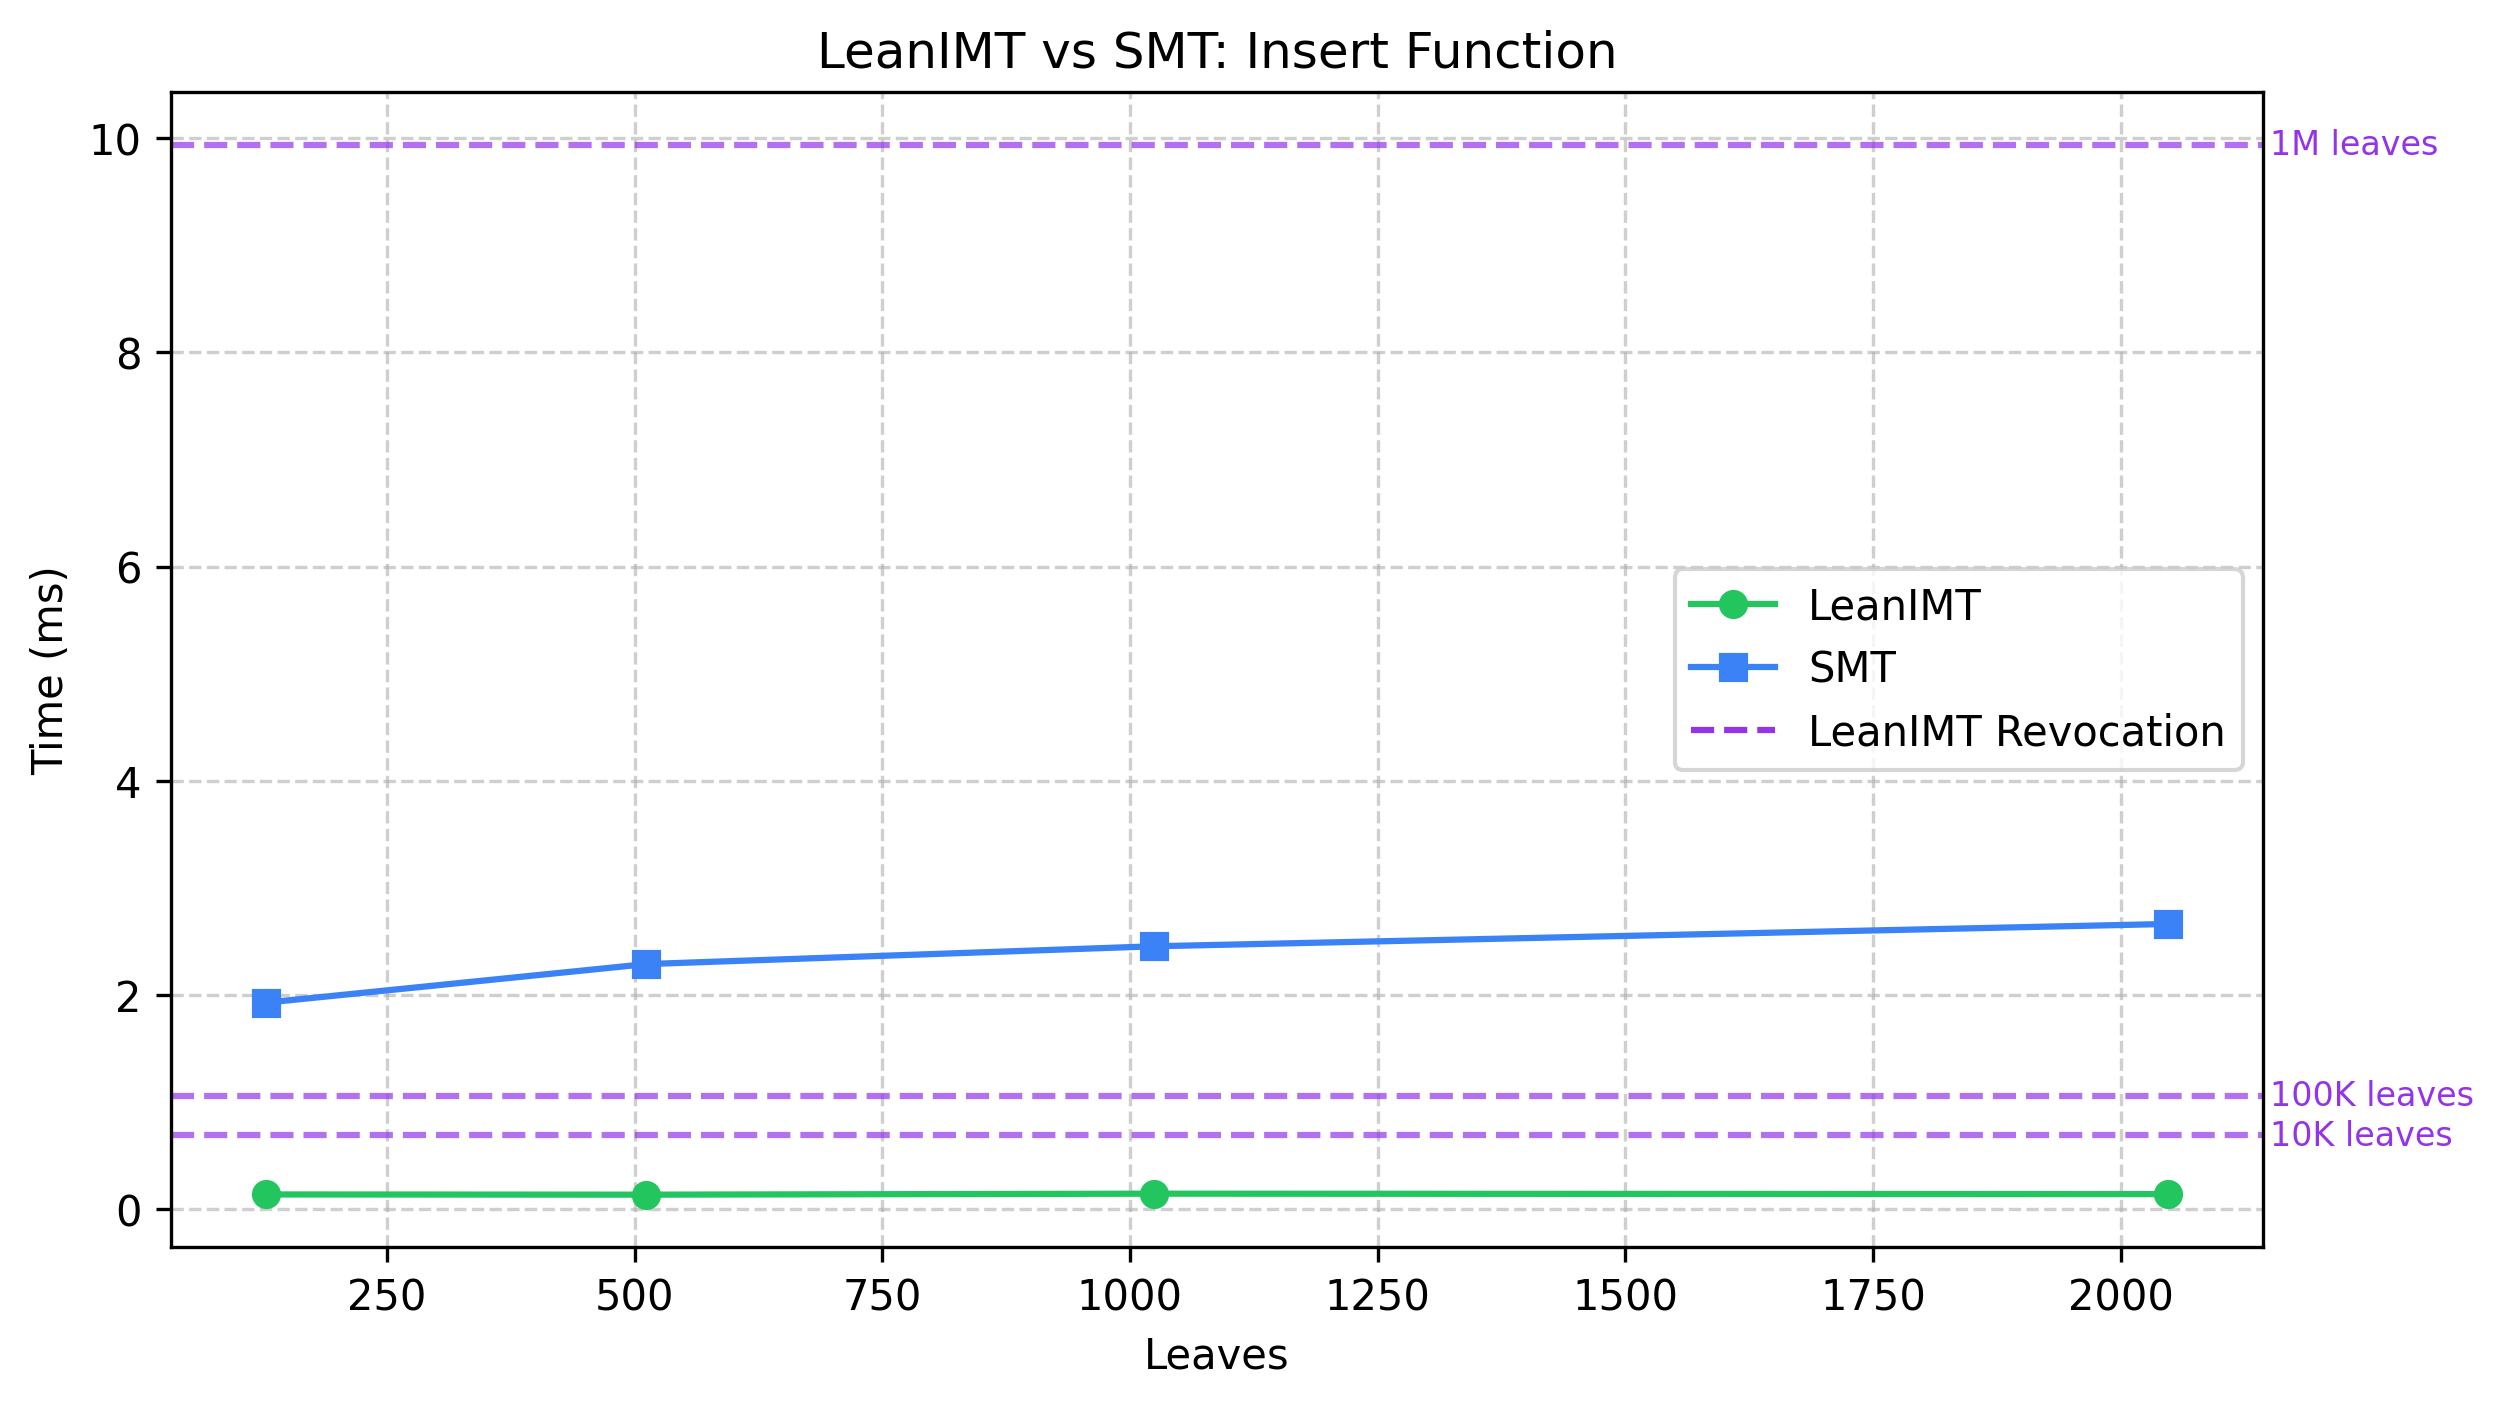
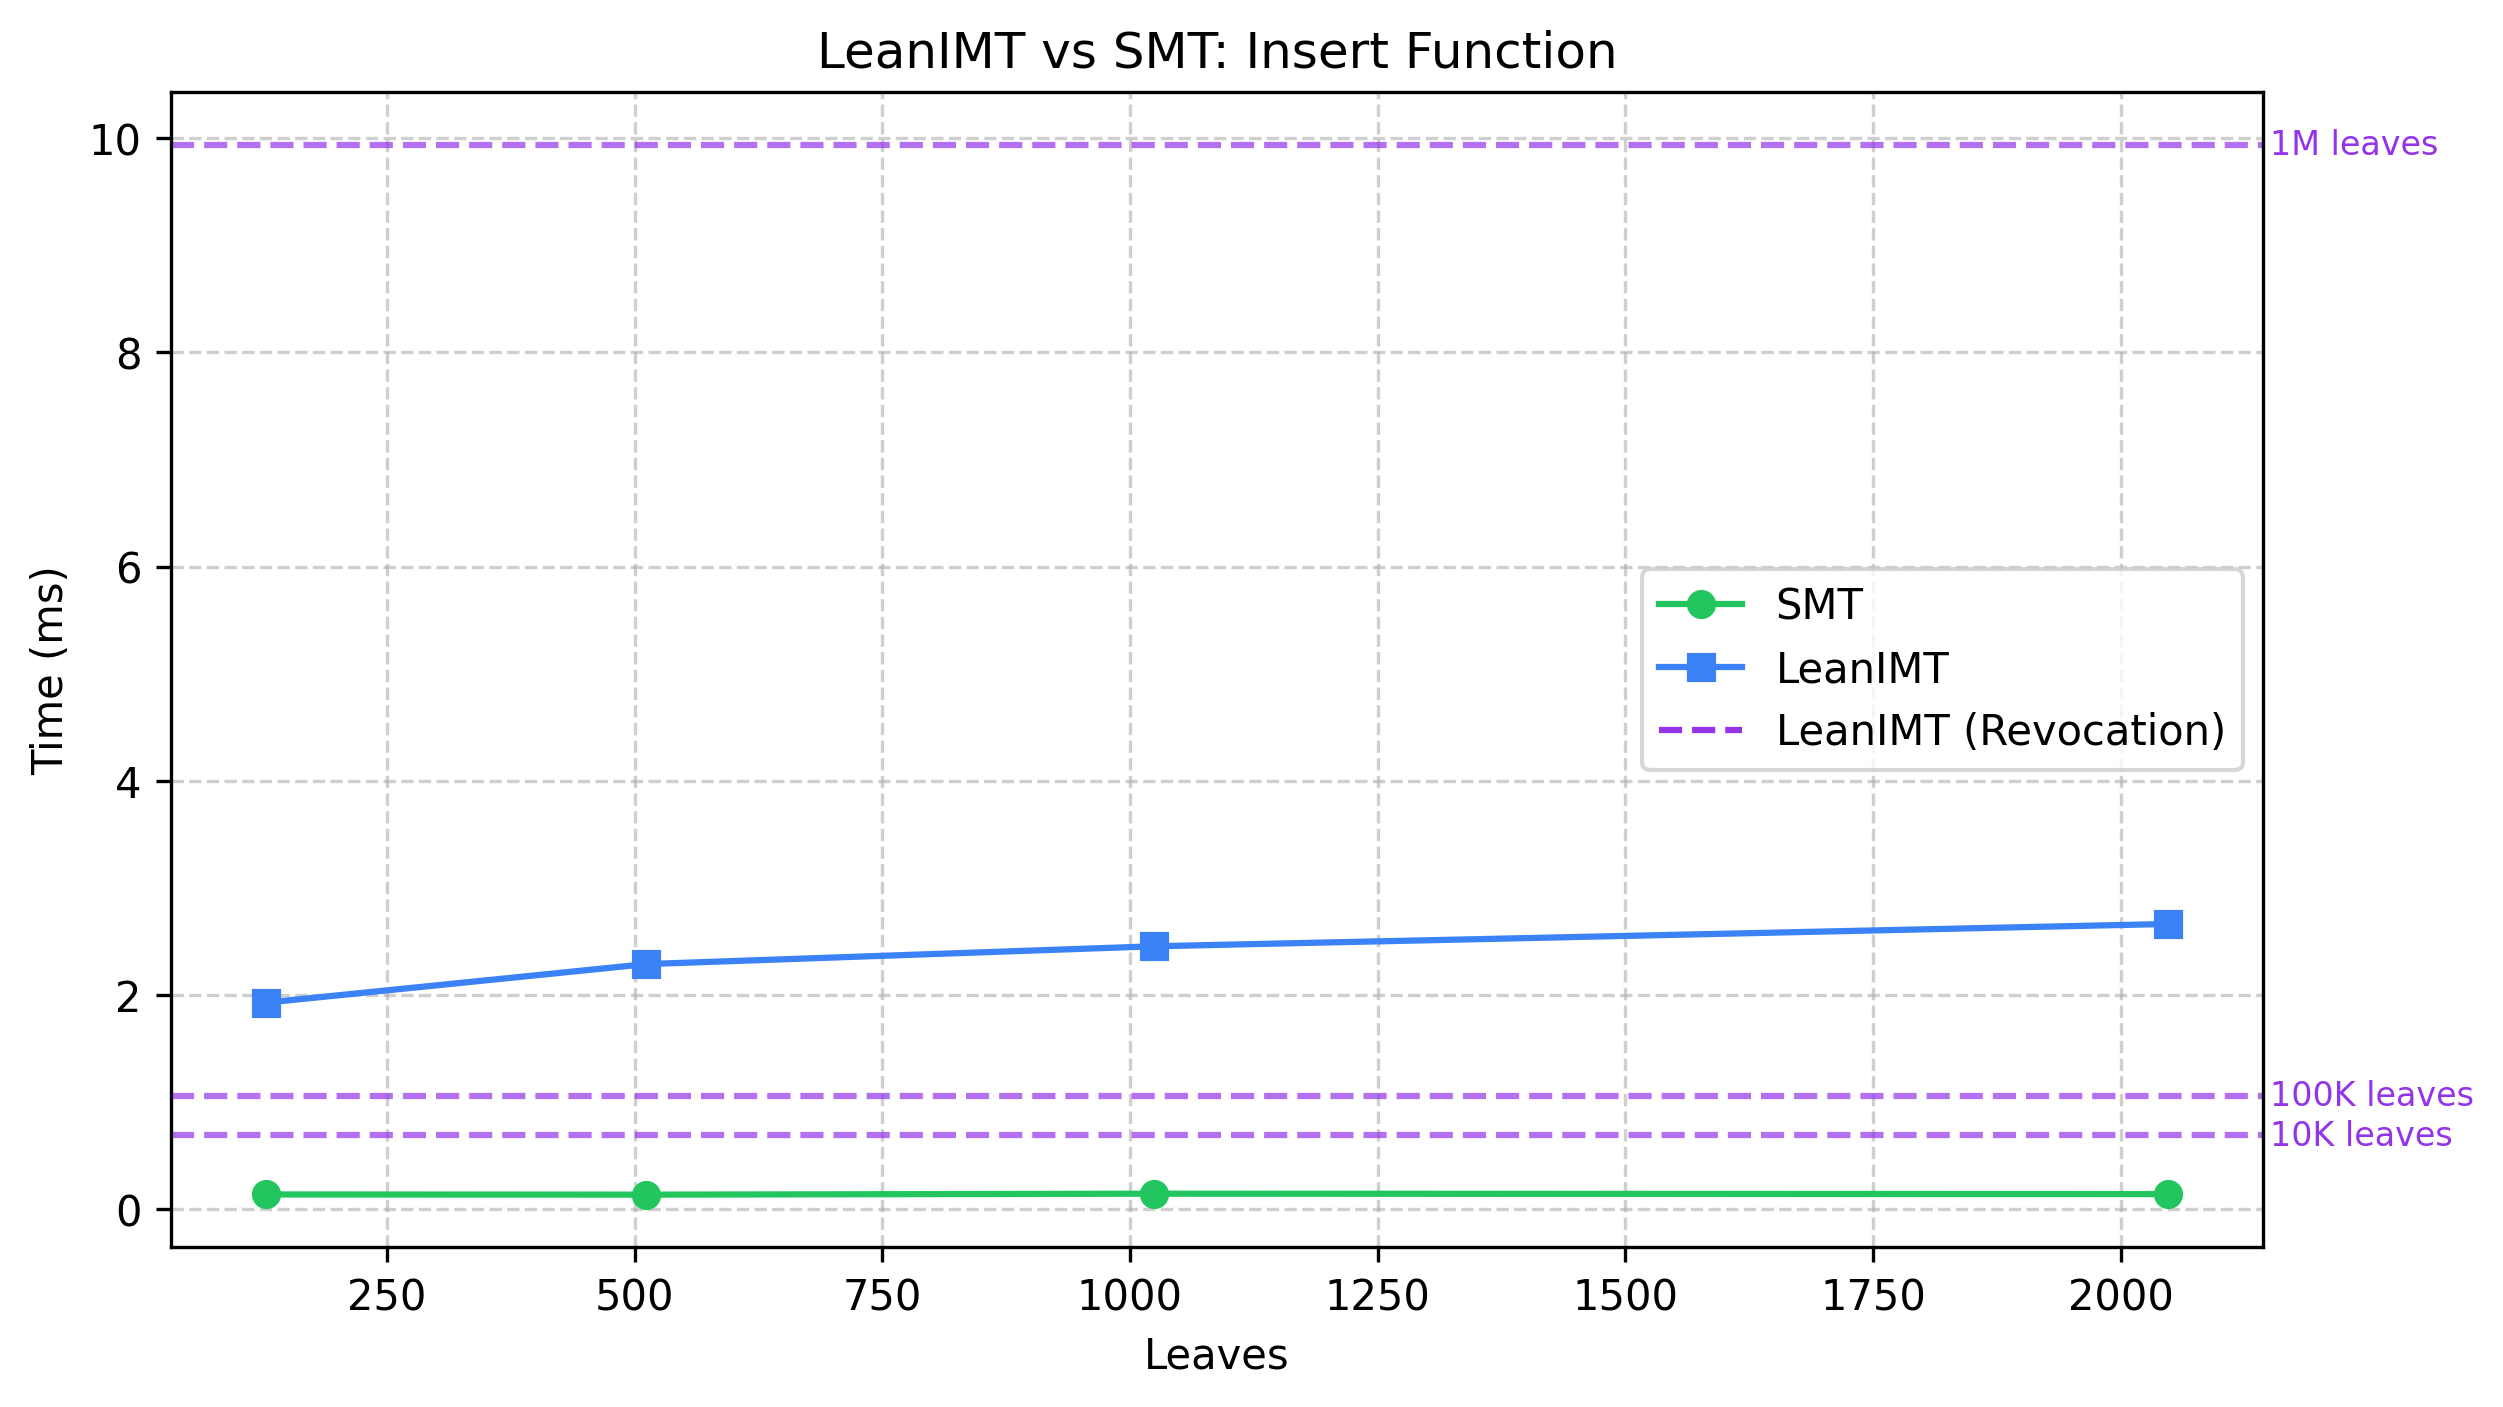
refactor: update insert chart

Changed region(s): [[0.6544, 0.3973, 0.8726, 0.5501]]

diff --git a/node/chart-scripts/insert-node-performance.py b/node/chart-scripts/insert-node-performance.py
@@ -36,7 +36,7 @@ plt.xlabel("Leaves")
 plt.ylabel("Time (ms)")
 plt.legend(handles=[plt.Line2D([], [], color="#22c55e", marker='o', label="LeanIMT"),
                     plt.Line2D([], [], color="#3b82f6", marker='s', label="SMT"),
-                    legend_line], labels=["LeanIMT", "SMT", "LeanIMT Revocation"])
+                    legend_line], labels=["SMT", "LeanIMT", "LeanIMT (Revocation)"])
 
 plt.grid(True, linestyle="--", alpha=0.6)
 # Save image (uncomment next line to save)
